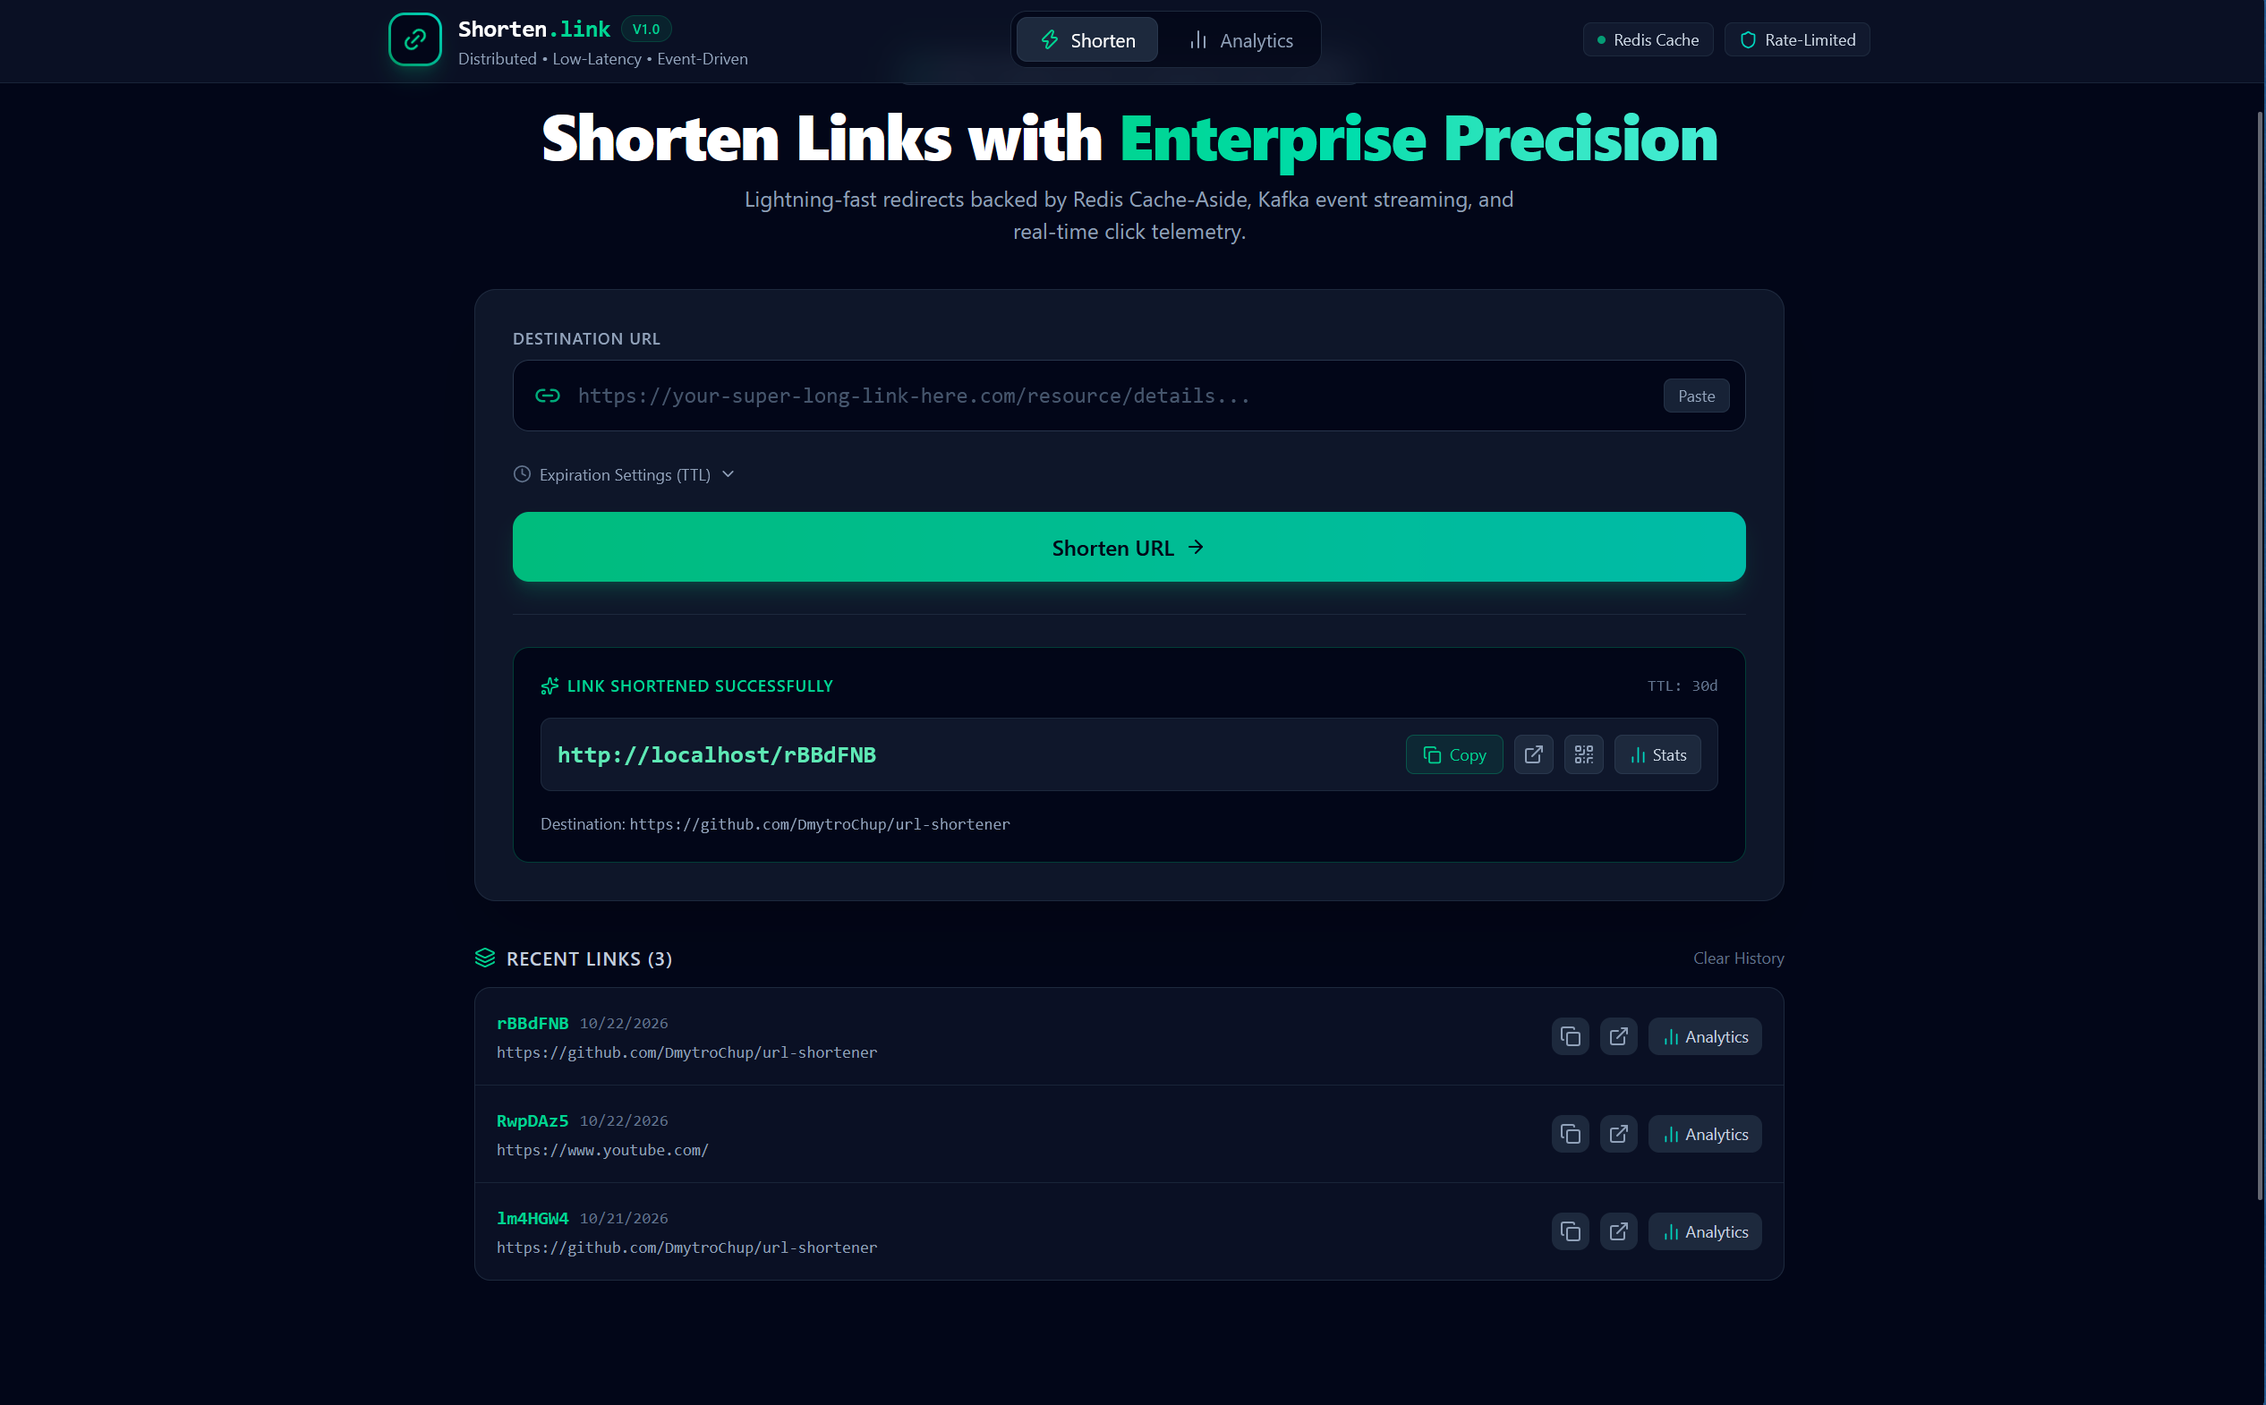
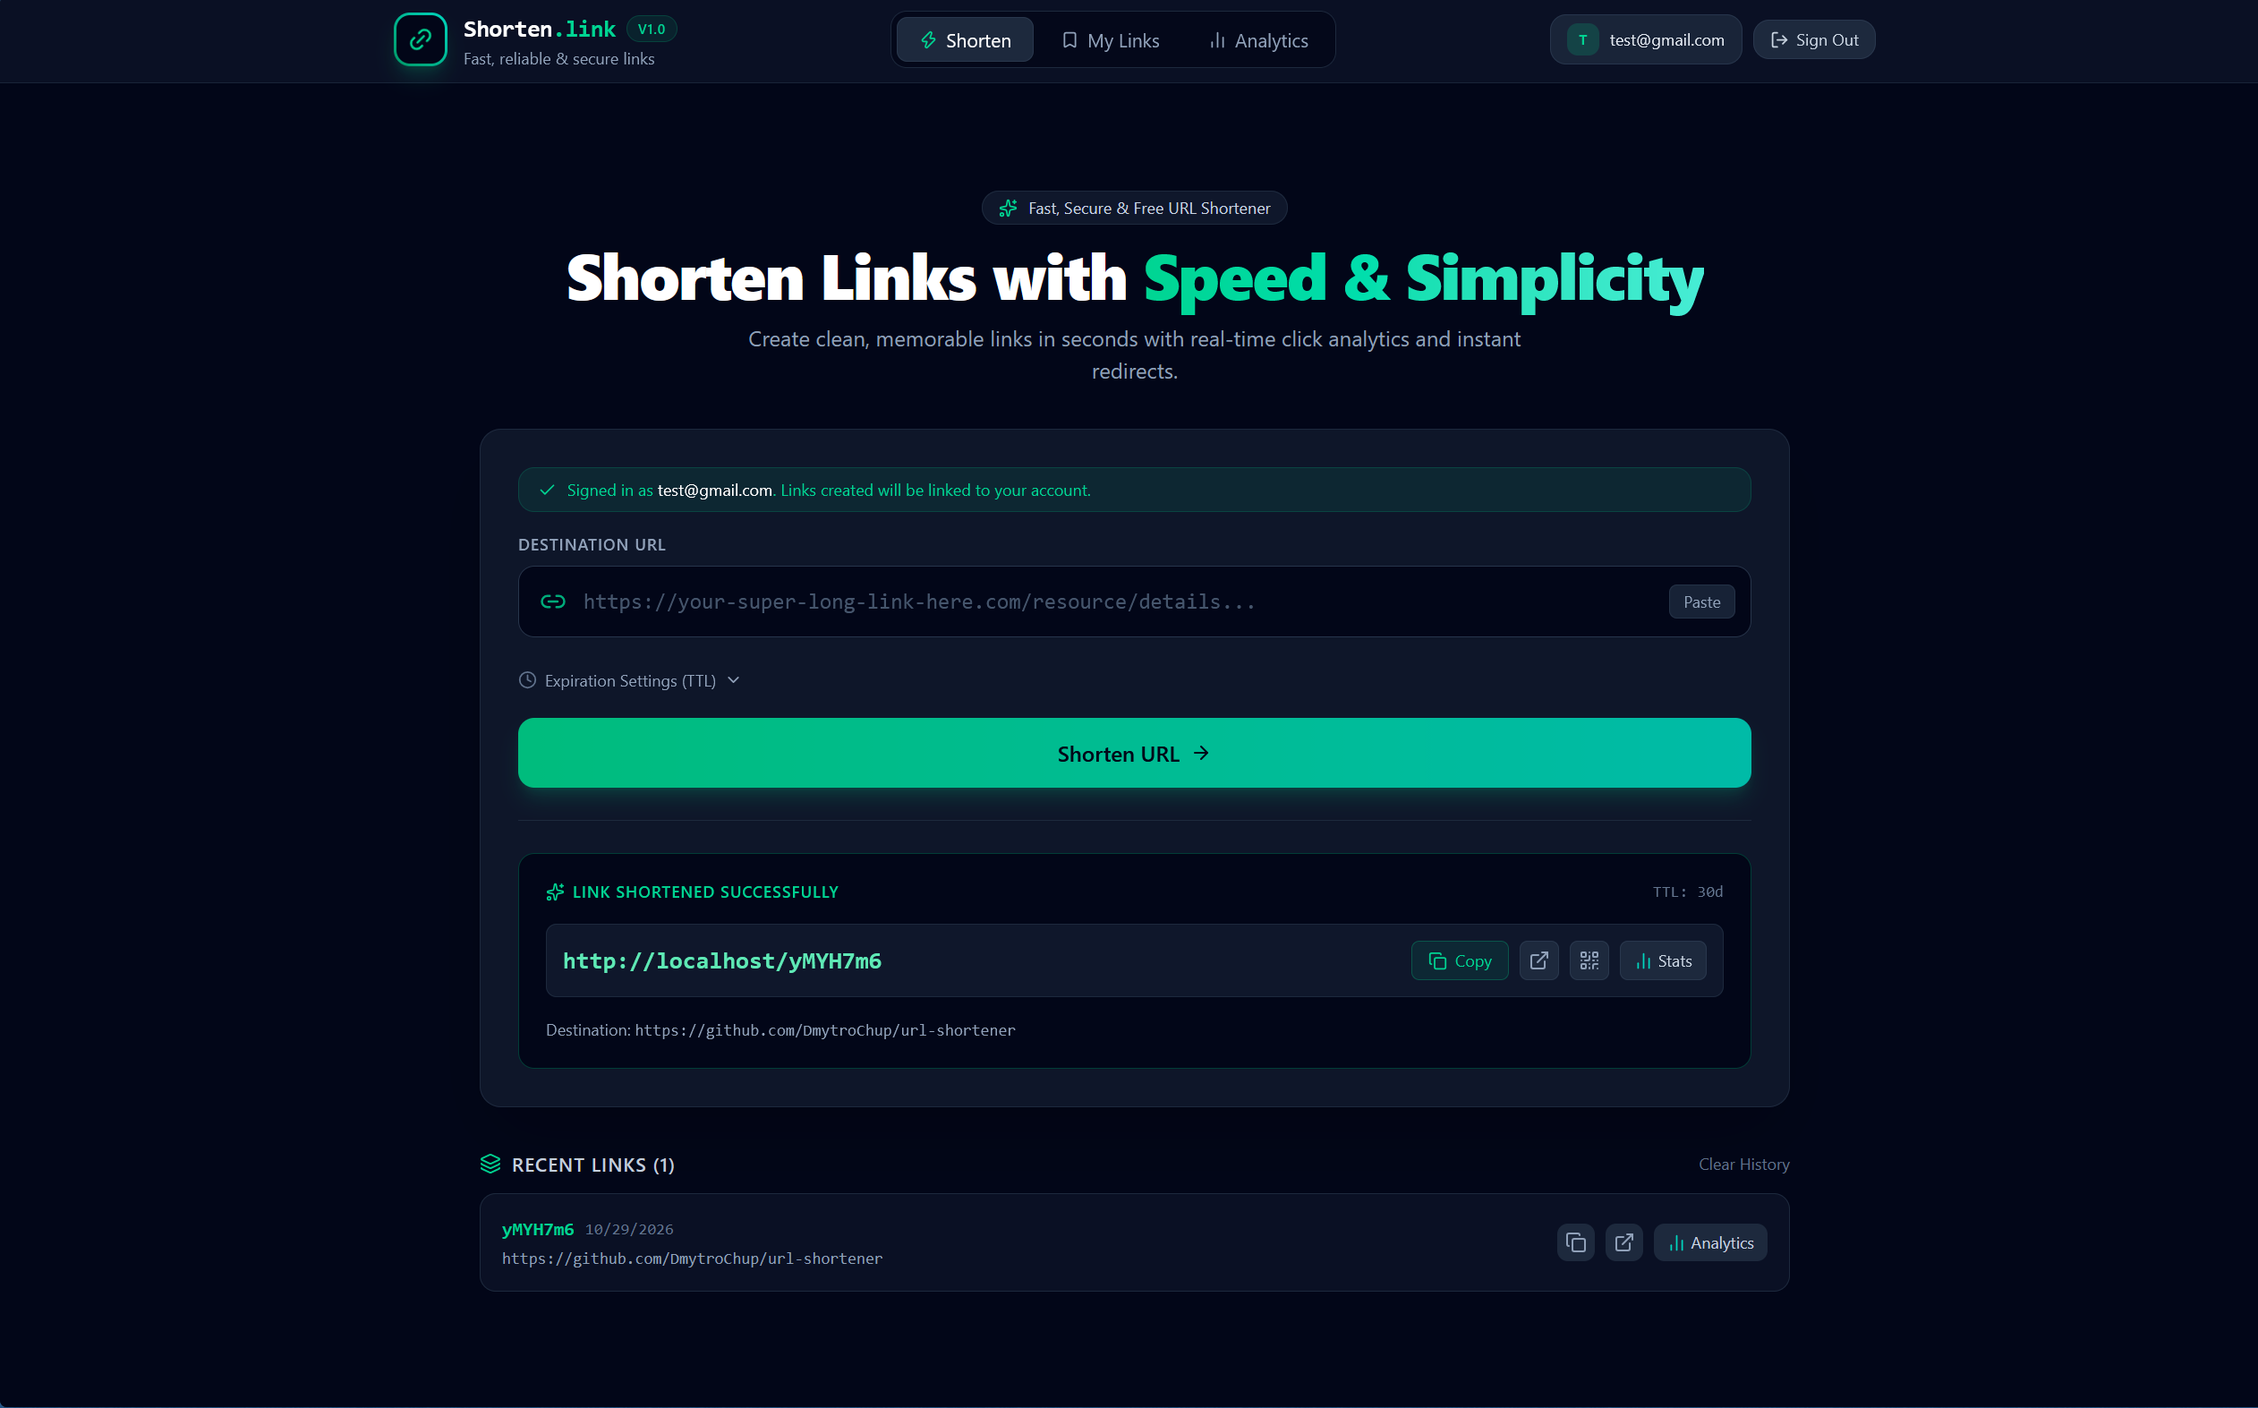
Update architecture diagram, UI screenshot, README, and CI pipeline

diff --git a/README.md b/README.md
@@ -4,6 +4,7 @@
 ![Java](https://img.shields.io/badge/Java-25-orange?logo=openjdk)
 ![Spring Boot](https://img.shields.io/badge/Spring%20Boot-4.1.1-green?logo=springboot)
 ![Spring Cloud Gateway](https://img.shields.io/badge/Spring%20Cloud-Gateway-blue)
+![Spring Security](https://img.shields.io/badge/Spring%20Security-6-green?logo=springsecurity)
 ![React](https://img.shields.io/badge/React-19-61DAFB?logo=react)
 ![TypeScript](https://img.shields.io/badge/TypeScript-5-blue?logo=typescript)
 ![Tailwind CSS](https://img.shields.io/badge/Tailwind_CSS-v4-38B2AC?logo=tailwind-css)
@@ -15,7 +16,7 @@
 
 A distributed URL shortening and clickstream analytics platform built with Spring Boot, Apache Kafka, Redis, PostgreSQL, and a modern React 19 SPA.
 
-The service separates the latency-critical redirect path from event processing using the **Transactional Outbox Pattern**, and incorporates **Resilience4j circuit breaking**, **idempotent Kafka consumption**, and **distributed tracing via OpenZipkin**.
+The service separates the latency-critical redirect path from event processing using the **Transactional Outbox Pattern**, incorporates **distributed JWT authentication with Redis refresh token rotation**, **Resilience4j circuit breaking**, **idempotent Kafka consumption**, and **distributed tracing via OpenZipkin**.
 
 ---
 
@@ -23,7 +24,7 @@ The service separates the latency-critical redirect path from event processing u
 
 ![Web Interface Preview](assets/web-ui.png)
 
-*Developer-first SPA interface featuring dark OLED aesthetics, QR code generation, configurable TTL link retention, and real-time Kafka click telemetry charts.*
+*Developer-first SPA interface featuring dark OLED aesthetics, user authentication, personal link management ("My Links"), QR code generation, configurable TTL link retention, and real-time click analytics charts.*
 
 ---
 
@@ -31,12 +32,14 @@ The service separates the latency-critical redirect path from event processing u
 
 ![System Architecture](assets/architecture.png)
 
-The platform is decomposed into four primary parts:
+The platform is decomposed into five primary services:
 
 * **Frontend & Edge Reverse Proxy (`:80`)**: Nginx reverse proxy serving the compiled React 19 SPA. Serves as the single unified public entry point, proxies API calls and short link redirects to the API Gateway, caches static assets, and strips client-spoofed `X-Forwarded-For` headers.
-* **API Gateway (`:8080`)**: Built on Spring Cloud Gateway (WebFlux / Netty). Manages path routing, Redis Token Bucket rate limiting, and circuit breaking for downstream analytics requests.
-* **URL Service (`:8081`)**: Manages Base62 link generation, Redis cache-aside lookups, and transactional persistence of click events into an Outbox table.
-* **Analytics Service (`:8082`)**: Consumes click events from Kafka, guarantees idempotent processing via unique event identifiers, enriches clicks with GeoIP and User-Agent heuristics (device, OS, browser), routes poison pills to a Dead Letter Topic, and exposes aggregated statistics.
+* **API Gateway (`:8080`)**: Built on Spring Cloud Gateway (WebFlux / Netty). Manages path routing, central JWT authentication via `JwtAuthenticationFilter`, anti-spoofing header sanitization (`X-User-Id` / `X-User-Role`), Redis Token Bucket rate limiting, and circuit breaking for downstream analytics requests.
+* **Auth Service (`:8083`)**: Manages user registration, BCrypt password hashing, JWT access token generation, and stateful refresh token rotation with Token Family tracking and replay attack detection backed by Redis.
+* **URL Service (`:8081`)**: Manages Base62 link generation, optional user ownership association, Redis cache-aside lookups, user link dashboard queries (`GET /api/v1/urls/me`), and transactional persistence of click events into an Outbox table.
+* **Analytics Service (`:8082`)**: Inter-service owner authorization via `RestClient` to `url-service` (with Caffeine caching), clickstream consumption from Kafka, idempotent processing via unique event identifiers, GeoIP/User-Agent heuristic enrichment (device, OS, browser), Dead Letter Topic routing, and aggregated statistics.
+* **Contracts Library (`:contracts`)**: Shared module defining domain events (`UrlClickEvent`), DTOs, and internal security headers (`SecurityHeaders`).
 
 ---
 
@@ -45,26 +48,38 @@ The platform is decomposed into four primary parts:
 ### 1. Unified Edge Entrypoint & Anti-Spoofing
 All external traffic terminates at the Nginx edge proxy on port `80`. Nginx overrides incoming `X-Forwarded-For` headers with `$remote_addr` (socket IP), neutralizing client IP spoofing before requests reach the internal Spring Cloud Gateway and rate limiters.
 
-### 2. Transactional Outbox (Dual-Write Prevention)
+### 2. Gateway Perimeter Security & Header Sanitization
+Downstream microservices trust internal headers (`X-User-Id`, `X-User-Role`) propagated by the API Gateway. To eliminate header spoofing vulnerabilities from external clients, `api-gateway` strips any client-provided identity headers before token verification. Only cryptographically verified JWT claims are forwarded into the private network.
+
+### 3. Distributed Authentication & Token Rotation (Token Families)
+Authentication uses short-lived stateless JWT access tokens (15m TTL) paired with single-use refresh tokens stored in Redis.
+* **Token Rotation**: Every refresh request invalidates the old refresh token and issues a new pair.
+* **Concurrency Grace Period**: A 10-second window permits concurrent in-flight browser requests to reuse the previous token safely during network delays.
+* **Replay Attack Detection**: If a revoked refresh token is reused outside the grace period, the entire token family is invalidated immediately in Redis, terminating all compromised user sessions.
+
+### 4. Inter-Service Owner Authorization & Fail-Closed Policy
+To prevent Insecure Direct Object References (IDOR), `analytics-service` validates that the requesting `X-User-Id` is the owner of the target short code by querying `url-service` via `RestClient`. Results are cached in Caffeine (5m TTL) to minimize inter-service overhead. If `url-service` is unreachable or returns an error, the endpoint defaults to a **fail-closed** policy (HTTP 403 Forbidden).
+
+### 5. Transactional Outbox (Dual-Write Prevention)
 Writing to PostgreSQL and publishing to Kafka within separate calls introduces potential state divergence if the network fails midway.
 On every redirect, `UrlClickEvent` is stored inside the local `outbox_events` table within the same database transaction. An asynchronous worker polls unpublished events, pushes them to the `url-clicks` Kafka topic, and marks them processed upon broker acknowledgement.
 
-### 3. Idempotent Consumer
+### 6. Idempotent Consumer
 Kafka provides at-least-once delivery semantics, meaning network retries or consumer group rebalances can cause duplicated event delivery.
 The consumer tracks incoming `eventId` (UUID) values within a `processed_events` table. Duplicate events are acknowledged and discarded without updating click counts.
 
-### 4. Dead Letter Topic (DLT / Poison Pill Isolation)
+### 7. Dead Letter Topic (DLT / Poison Pill Isolation)
 Unparseable payloads or unexpected deserialization errors can block partition offsets and halt consumer progress.
 A custom `DefaultErrorHandler` with exponential backoff intercepts failing records and redirects unrecoverable events to `url-clicks.DLT`, allowing the main consumer loop to proceed uninterrupted.
 
-### 5. Circuit Breaker & Fallback
+### 8. Circuit Breaker & Fallback
 To prevent cascading service degradation, the API Gateway protects analytics routes with **Resilience4j**. If downstream failure rates exceed 50%, the gateway opens the circuit and immediately responds with an **RFC 7807 Problem Detail (503 Service Unavailable)** fallback without blocking worker threads.
 
-### 6. Cache Penetration Protection
+### 9. Cache Penetration Protection
 Direct database queries for non-existent short codes can exhaust database connections under high traffic or scanning attacks.
 When a short code is not found, a negative cache entry (`__NOT_FOUND__`) is written to Redis with a short 5-minute TTL, absorbing subsequent misses directly in memory.
 
-### 7. Distributed Tracing
+### 10. Distributed Tracing
 All HTTP requests, reactive Gateway filters, and asynchronous Kafka messages propagate W3C/B3 trace headers instrumented via **Micrometer Tracing** and **Brave**, with visualization in **OpenZipkin**.
 
 ---
@@ -73,14 +88,15 @@ All HTTP requests, reactive Gateway filters, and asynchronous Kafka messages pro
 
 ```
 url-shortener/
-├── frontend/            # React 19 SPA, Tailwind CSS v4, Lucide icons, Recharts
-├── api-gateway/         # Reactive gateway, rate limiting, circuit breaker fallback
-├── contracts/           # Shared domain events (UrlClickEvent) and DTOs
-├── url-service/         # Base62 shortening, Redis cache-aside, Outbox publisher
-├── analytics-service/   # Kafka consumer, idempotent processing, DLT routing
-├── docker/              # Multi-database init scripts
+├── frontend/            # React 19 SPA, TypeScript, Tailwind CSS v4, Lucide icons, Recharts
+├── api-gateway/         # Reactive gateway, JWT auth filter, anti-spoofing, rate limiting, circuit breaker
+├── contracts/           # Shared domain events (UrlClickEvent), DTOs, and SecurityHeaders
+├── auth-service/        # User identity, BCrypt, JWT issuance, Redis refresh token rotation
+├── url-service/         # Base62 shortening, link ownership, Redis cache-aside, Outbox publisher
+├── analytics-service/   # Kafka consumer, owner authorization check, idempotent processing, DLT routing
+├── docker/              # Multi-database PostgreSQL initialization script (init-databases.sql)
 ├── load-tests/          # k6 load testing benchmark scripts
-├── .github/workflows/   # CI/CD pipeline (Testcontainers + Docker builds)
+├── .github/workflows/   # CI/CD pipeline (Gradle tests, frontend typecheck, Docker image verification)
 ├── compose.yaml         # Production perimeter (port 80 only)
 └── compose.dev.yaml     # Local dev overlay (loopback ports for DBs, Swagger, Zipkin)
 ```
@@ -110,13 +126,14 @@ docker compose -f compose.yaml -f compose.dev.yaml up --build -d
 | Service               | Public Port (Prod) | Dev Port (Loopback) | Description                             | Docs / UI                               |
 |-----------------------|--------------------|---------------------|-----------------------------------------|-----------------------------------------|
 | **Frontend & Edge**   | `80`               | `80`                | React SPA & Nginx Edge Reverse Proxy    | `http://localhost/`                     |
-| **API Gateway**       | *Internal*         | `127.0.0.1:8080`    | Internal Gateway & Token Bucket Limiter | Root routing                            |
+| **API Gateway**       | *Internal*         | `127.0.0.1:8080`    | Internal Gateway, JWT Auth & Rate Limit | Root routing                            |
+| **Auth Service**      | *Internal*         | `127.0.0.1:8083`    | JWT issuance, token rotation & users    | REST API / Actuator                     |
 | **URL Service**       | *Internal*         | `127.0.0.1:8081`    | Base62 shortening & Outbox publisher    | `http://localhost:8081/swagger-ui.html` |
 | **Analytics Service** | *Internal*         | `127.0.0.1:8082`    | Clickstream consumer & reporting        | `http://localhost:8082/swagger-ui.html` |
 | **Zipkin UI**         | *Internal*         | `127.0.0.1:9411`    | Distributed tracing dashboard           | `http://localhost:9411/zipkin/`         |
-| **PostgreSQL**        | *Internal*         | `127.0.0.1:5444`    | Databases: `urls_db`, `analytics_db`    | Mapped to internal `5432`               |
+| **PostgreSQL**        | *Internal*         | `127.0.0.1:5444`    | Databases: `url_shortener`, `url_shortener_analytics`, `url_shortener_auth` | Mapped to internal `5432` |
 | **Apache Kafka**      | *Internal*         | `127.0.0.1:9094`    | KRaft single-node broker                | Port `9092` internal                    |
-| **Redis**             | *Internal*         | `127.0.0.1:6379`    | Cache-aside & rate limiter storage      | Standalone                              |
+| **Redis**             | *Internal*         | `127.0.0.1:6379`    | Cache-aside, rate limits & token family sessions | Standalone                    |
 
 ---
 
@@ -124,10 +141,33 @@ docker compose -f compose.yaml -f compose.dev.yaml up --build -d
 
 Requests should be sent directly to the single entry point (`http://localhost`):
 
-### 1. Shorten a URL
+### 1. Register & Login
+```bash
+# Register
+curl -X POST http://localhost/api/v1/auth/register \
+  -H "Content-Type: application/json" \
+  -d '{"email": "user@example.com", "password": "Secur3Password!"}'
+
+# Login
+curl -X POST http://localhost/api/v1/auth/login \
+  -H "Content-Type: application/json" \
+  -d '{"email": "user@example.com", "password": "Secur3Password!"}'
+```
+Response:
+```json
+{
+  "accessToken": "eyJhbGciOi...",
+  "refreshToken": "uG8x_9...",
+  "tokenType": "Bearer",
+  "expiresIn": 900
+}
+```
+
+### 2. Shorten a URL (Authenticated or Anonymous)
 ```bash
 curl -X POST http://localhost/api/v1/urls/shorten \
   -H "Content-Type: application/json" \
+  -H "Authorization: Bearer <access_token>" \
   -d '{"url": "https://spring.io", "ttlDays": 30}'
 ```
 Response:
@@ -135,7 +175,13 @@ Response:
 "aB7xK9q"
 ```
 
-### 2. Follow Redirect (HTTP 302)
+### 3. Retrieve User's Links (Protected)
+```bash
+curl http://localhost/api/v1/urls/me \
+  -H "Authorization: Bearer <access_token>"
+```
+
+### 4. Follow Redirect (HTTP 302)
 ```bash
 curl -i http://localhost/aB7xK9q
 ```
@@ -145,9 +191,10 @@ HTTP/1.1 302 Found
 Location: https://spring.io
 ```
 
-### 3. Check Analytics
+### 5. Check Analytics (Owner Protected)
 ```bash
-curl http://localhost/api/v1/analytics/aB7xK9q
+curl http://localhost/api/v1/analytics/aB7xK9q \
+  -H "Authorization: Bearer <access_token>"
 ```
 Response:
 ```json
@@ -167,6 +214,13 @@ Response:
     "Windows": 1
   }
 }
+```
+
+### 6. Refresh Token Rotation
+```bash
+curl -X POST http://localhost/api/v1/auth/refresh \
+  -H "Content-Type: application/json" \
+  -d '{"refreshToken": "<refresh_token>"}'
 ```
 
 ---
@@ -196,11 +250,15 @@ cat load-tests/redirect-benchmark.js | docker run --rm -i --network url-shortene
 
 * **Unit Testing**: Business logic isolated with JUnit 5 and Mockito.
 * **Integration Testing**: Multi-module suites tested against real PostgreSQL, Redis, and Kafka containers via **Testcontainers**.
-* **CI Pipeline**: Automated build and verification on **GitHub Actions** (`.github/workflows/ci.yml`) using Java 25, Gradle build cache, and parallel Dockerfile verification.
+* **Frontend Verification**: TypeScript typecheck and production bundle build with Vite (`tsc -b && vite build`).
+* **CI Pipeline**: Automated build and verification on **GitHub Actions** (`.github/workflows/ci.yml`) using Java 25, Gradle build cache, Node.js 22, and parallel multi-stage Dockerfile verification for all 5 services.
 
 ```bash
-# Run local test suite
+# Run local test suite across all modules
 ./gradlew test
+
+# Build frontend
+cd frontend && npm run build
 ```
 
 ---
